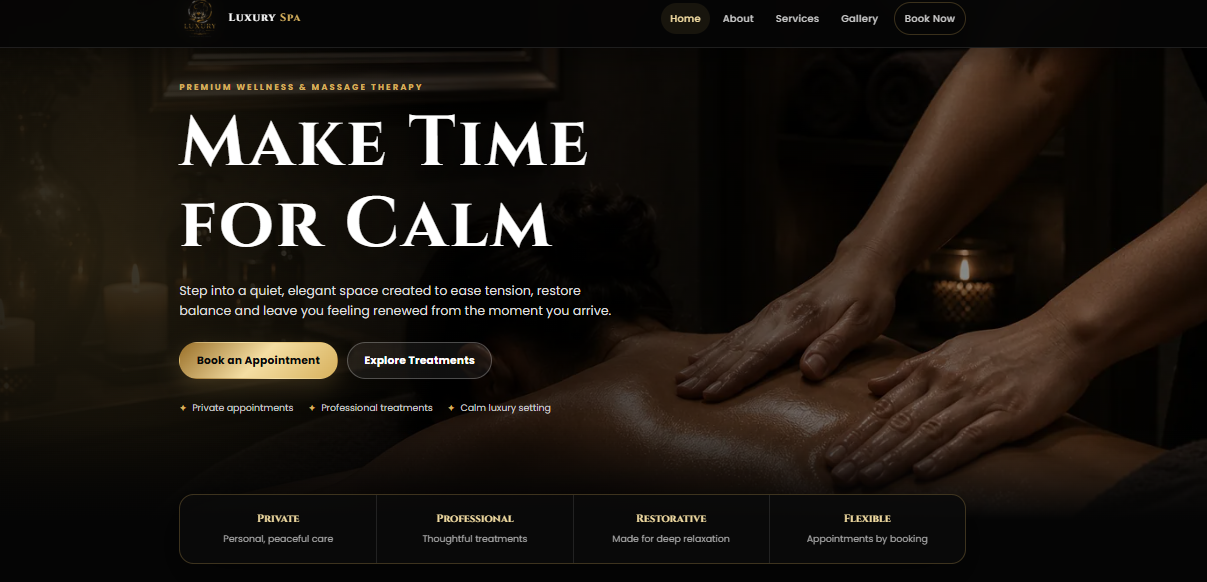
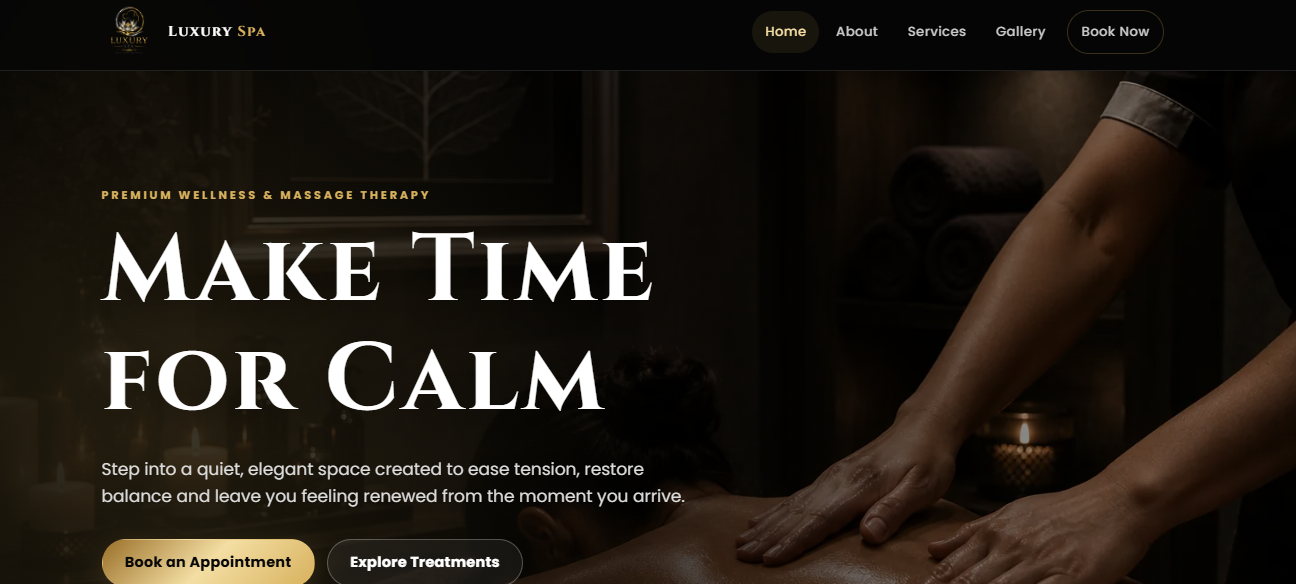
proj 7 update img

diff --git a/index.html b/index.html
@@ -552,7 +552,7 @@
 <header class="business-card-brand">
 <img alt="CampbellWeb" class="business-card-logo" src="images/logo2.webp" width="720" height="480"/>
 <p>
-          Professional, affordable websites designed to help your business grow.
+          Professional, affordable and mobile-friendly websites designed to help your business grow.
         </p>
 </header>
 <nav aria-label="Contact CampbellWeb" class="business-card-links">
